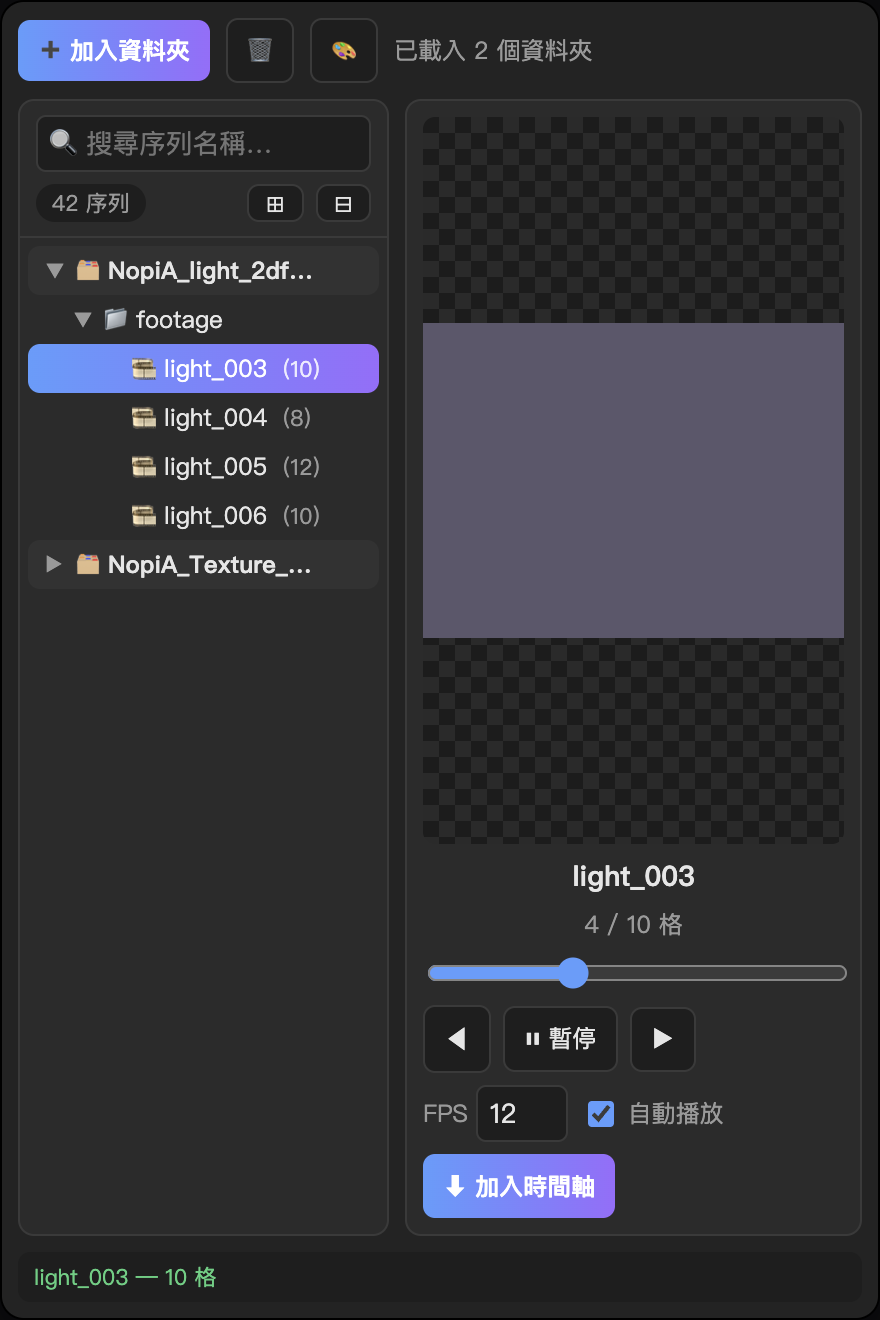
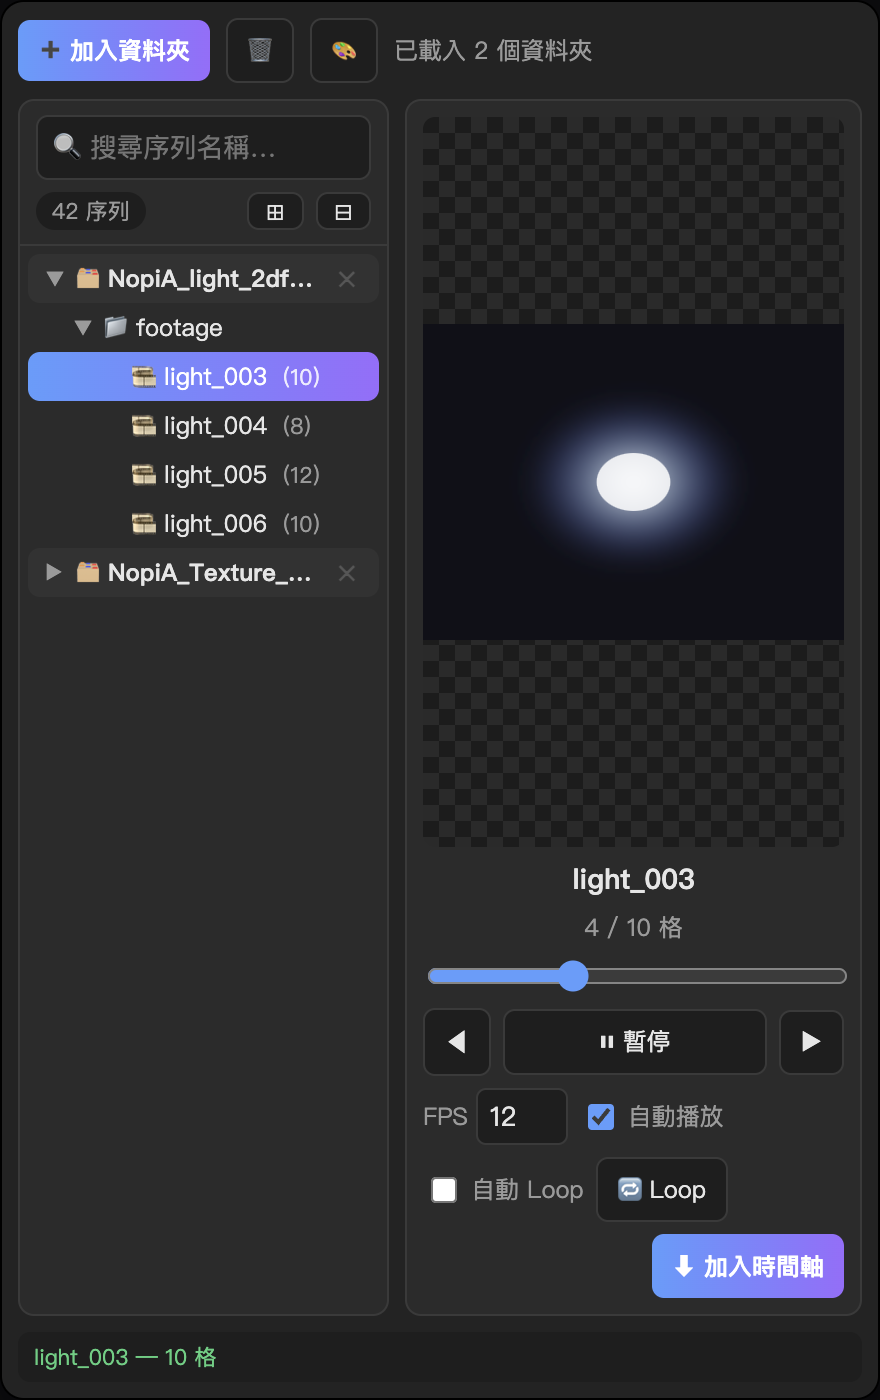
docs: refresh UI screenshots for v1.0.4
Update main/theme panel shots and hero banner with Loop controls; add demo HTML for reproducible captures.

diff --git a/docs/demo/style.css b/docs/demo/style.css
@@ -1,0 +1,162 @@
+:root {
+    --bg: #232323;
+    --panel: #2b2b2b;
+    --panel2: #1e1e1e;
+    --line: #3a3a3a;
+    --txt: #e6e6e6;
+    --muted: #9a9a9a;
+    --accent: #5b9dff;
+    --accent2: #9a6cff;
+    --ok: #4cd07d;
+    --err: #ff6b6b;
+}
+
+* { box-sizing: border-box; }
+
+html, body {
+    margin: 0;
+    background: #0c0c0f;
+    display: block;
+    padding: 24px;
+}
+
+.panel-frame {
+    width: 440px;
+    height: 700px;
+    background: var(--bg);
+    color: var(--txt);
+    font-family: -apple-system, "PingFang TC", "Segoe UI", sans-serif;
+    font-size: 12px;
+    display: flex;
+    flex-direction: column;
+    padding: 8px;
+    gap: 8px;
+    border-radius: 12px;
+    overflow: hidden;
+    box-shadow: 0 24px 60px rgba(0,0,0,.5);
+    border: 1px solid #000;
+    user-select: none;
+}
+
+.top { display: flex; gap: 8px; align-items: center; flex: 0 0 auto; }
+.root {
+    flex: 1; min-width: 0; color: var(--muted);
+    white-space: nowrap; overflow: hidden; text-overflow: ellipsis;
+    direction: rtl; text-align: left;
+}
+
+.settings {
+    flex: 0 0 auto; display: flex; align-items: center; gap: 12px; flex-wrap: wrap;
+    background: var(--panel); border: 1px solid var(--line);
+    border-radius: 8px; padding: 8px 10px;
+}
+.settings label { display: flex; align-items: center; gap: 5px; color: var(--muted); }
+.settings input[type="color"] {
+    width: 28px; height: 22px; padding: 0; border: 1px solid var(--line);
+    border-radius: 5px; background: none; cursor: pointer;
+}
+.presets { display: flex; gap: 6px; }
+.swatch {
+    width: 22px; height: 22px; border-radius: 6px; cursor: pointer;
+    border: 1px solid var(--line); display: inline-block;
+}
+
+.main { flex: 1 1 auto; display: flex; gap: 8px; min-height: 0; }
+
+.side {
+    flex: 0 0 44%; min-width: 150px;
+    display: flex; flex-direction: column;
+    background: var(--panel); border: 1px solid var(--line);
+    border-radius: 8px; overflow: hidden;
+}
+.side-head {
+    padding: 7px 8px; border-bottom: 1px solid var(--line);
+    display: flex; flex-direction: column; gap: 6px;
+}
+.search {
+    width: 100%; background: var(--panel2); color: var(--txt);
+    border: 1px solid var(--line); border-radius: 6px;
+    padding: 6px 8px; font-family: inherit; outline: none;
+}
+.side-tools { display: flex; align-items: center; gap: 6px; }
+.badge {
+    background: var(--panel2); color: var(--muted);
+    border-radius: 99px; padding: 2px 8px; font-size: 11px;
+}
+.mini { margin-left: auto; padding: 2px 8px; font-size: 13px; line-height: 1; }
+.mini + .mini { margin-left: 0; }
+
+.tree { flex: 1; overflow: hidden; padding: 4px; }
+
+.node { white-space: nowrap; }
+.row {
+    display: flex; align-items: center; gap: 4px;
+    padding: 4px 6px; border-radius: 6px; cursor: pointer;
+    overflow: hidden;
+}
+.row.active {
+    background: linear-gradient(90deg, var(--accent), var(--accent2));
+    color: #fff;
+}
+.row.active .sub { color: rgba(255,255,255,.85); }
+.root-row { font-weight: 600; background: rgba(255,255,255,.03); }
+.rm { margin-left: auto; flex: 0 0 auto; color: var(--muted); padding: 0 6px; font-size: 11px; opacity: .35; }
+.tw { width: 14px; flex: 0 0 14px; text-align: center; color: var(--muted); font-size: 10px; }
+.tw.open { transform: rotate(90deg); display: inline-block; }
+.tw.leaf { visibility: hidden; }
+.ico { flex: 0 0 auto; }
+.label { overflow: hidden; text-overflow: ellipsis; }
+.sub { color: var(--muted); margin-left: 4px; font-size: 11px; }
+.children.open { display: block; }
+
+.preview {
+    flex: 1 1 auto; min-width: 0;
+    display: flex; flex-direction: column; gap: 6px;
+    background: var(--panel); border: 1px solid var(--line);
+    border-radius: 8px; padding: 8px;
+}
+.stage {
+    flex: 1 1 auto; min-height: 120px;
+    background:
+        linear-gradient(45deg, #2a2a2a 25%, transparent 25%) 0 0/16px 16px,
+        linear-gradient(-45deg, #2a2a2a 25%, transparent 25%) 0 8px/16px 16px,
+        linear-gradient(45deg, transparent 75%, #2a2a2a 75%) 8px -8px/16px 16px,
+        linear-gradient(-45deg, transparent 75%, #2a2a2a 75%) -8px 0/16px 16px,
+        #1c1c1c;
+    border-radius: 6px; display: flex; align-items: center; justify-content: center;
+    overflow: hidden; position: relative;
+}
+.stage img { max-width: 100%; max-height: 100%; object-fit: contain; }
+
+.name { text-align: center; font-weight: 700; font-size: 14px; }
+.info { text-align: center; color: var(--muted); }
+.slider { width: 100%; accent-color: var(--accent); }
+
+.controls { display: flex; align-items: center; gap: 6px; flex-wrap: wrap; }
+.fps, .autoplay { display: flex; align-items: center; gap: 4px; color: var(--muted); }
+.fps input { width: 46px; }
+.autoplay input { accent-color: var(--accent); }
+
+button {
+    font-family: inherit; font-size: 12px; cursor: pointer;
+    border: 1px solid var(--line); background: var(--panel2);
+    color: var(--txt); border-radius: 6px; padding: 7px 10px;
+}
+.btn-primary {
+    border: none; background: linear-gradient(90deg, var(--accent), var(--accent2));
+    color: #fff; font-weight: 600;
+}
+#play { flex: 1; min-width: 80px; }
+#import { margin-left: auto; }
+
+input[type="number"] {
+    background: var(--panel2); color: var(--txt);
+    border: 1px solid var(--line); border-radius: 5px; padding: 4px 6px;
+    font-family: inherit;
+}
+
+.status {
+    flex: 0 0 auto; padding: 5px 8px; border-radius: 6px;
+    background: var(--panel2); color: var(--muted); font-size: 11px;
+}
+.status.ok { color: var(--ok); }

diff --git a/docs/demo/demo-theme.html b/docs/demo/demo-theme.html
@@ -1,0 +1,100 @@
+<!DOCTYPE html>
+<html lang="zh-Hant">
+<head>
+<meta charset="utf-8">
+<title>PNG Sequence Preview — Theme</title>
+<link rel="stylesheet" href="./style.css">
+<style>
+  :root {
+    --accent: #39d98a;
+    --accent2: #2bb673;
+  }
+</style>
+</head>
+<body>
+<div class="panel-frame" id="frame">
+  <div class="top">
+    <button class="btn-primary">➕ 加入資料夾</button>
+    <button class="btn" title="清空全部">🗑</button>
+    <button class="btn" title="介面顏色">🎨</button>
+    <div class="root">已載入 2 個資料夾</div>
+  </div>
+
+  <div class="settings">
+    <label>主色 <input type="color" value="#39d98a"></label>
+    <label>副色 <input type="color" value="#2bb673"></label>
+    <label>背景 <input type="color" value="#232323"></label>
+    <span class="presets">
+      <i class="swatch" style="background:linear-gradient(90deg,#5b9dff,#9a6cff)"></i>
+      <i class="swatch" style="background:linear-gradient(90deg,#39d98a,#2bb673);outline:2px solid #fff;outline-offset:1px"></i>
+      <i class="swatch" style="background:linear-gradient(90deg,#ff8a5b,#ff5b9d)"></i>
+      <i class="swatch" style="background:linear-gradient(90deg,#f5c542,#ff8a5b)"></i>
+    </span>
+    <button class="mini">重設</button>
+  </div>
+
+  <div class="main">
+    <div class="side">
+      <div class="side-head">
+        <input class="search" type="text" placeholder="🔍 搜尋序列名稱…">
+        <div class="side-tools">
+          <span class="badge">42 序列</span>
+          <button class="mini">⊞</button>
+          <button class="mini">⊟</button>
+        </div>
+      </div>
+      <div class="tree">
+        <div class="node">
+          <div class="row root-row" style="padding-left:6px">
+            <span class="tw open">▶</span><span class="ico">🗂</span>
+            <span class="label">NopiA_light_2dfxPack</span><span class="rm">✕</span>
+          </div>
+          <div class="children open">
+            <div class="node"><div class="row" style="padding-left:20px">
+              <span class="tw open">▶</span><span class="ico">📁</span><span class="label">footage</span></div>
+              <div class="children open">
+                <div class="node"><div class="row active" style="padding-left:34px">
+                  <span class="tw leaf">▶</span><span class="ico">🎞</span><span class="label">light_003</span><span class="sub">(10)</span></div></div>
+                <div class="node"><div class="row" style="padding-left:34px">
+                  <span class="tw leaf">▶</span><span class="ico">🎞</span><span class="label">light_004</span><span class="sub">(8)</span></div></div>
+                <div class="node"><div class="row" style="padding-left:34px">
+                  <span class="tw leaf">▶</span><span class="ico">🎞</span><span class="label">light_005</span><span class="sub">(12)</span></div></div>
+                <div class="node"><div class="row" style="padding-left:34px">
+                  <span class="tw leaf">▶</span><span class="ico">🎞</span><span class="label">light_006</span><span class="sub">(10)</span></div></div>
+              </div>
+            </div>
+          </div>
+        </div>
+        <div class="node">
+          <div class="row root-row" style="padding-left:6px">
+            <span class="tw">▶</span><span class="ico">🗂</span>
+            <span class="label">NopiA_Texture_Pack_vol.1</span><span class="rm">✕</span>
+          </div>
+        </div>
+      </div>
+    </div>
+
+    <div class="preview">
+      <div class="stage">
+        <img src="./preview.svg" alt="light_003 preview">
+      </div>
+      <div class="name">light_003</div>
+      <div class="info">4 / 10 格</div>
+      <input class="slider" type="range" min="0" max="9" value="3">
+      <div class="controls">
+        <button class="btn">◀</button>
+        <button class="btn" id="play">⏸ 暫停</button>
+        <button class="btn">▶</button>
+        <label class="fps">FPS <input type="number" value="12"></label>
+        <label class="autoplay"><input type="checkbox" checked> 自動播放</label>
+        <label class="autoplay"><input type="checkbox"> 自動 Loop</label>
+        <button class="btn">🔁 Loop</button>
+        <button class="btn-primary" id="import">⬇ 加入時間軸</button>
+      </div>
+    </div>
+  </div>
+
+  <div class="status ok">light_003 — 10 格</div>
+</div>
+</body>
+</html>

diff --git a/docs/demo/demo-main.html b/docs/demo/demo-main.html
@@ -1,0 +1,81 @@
+<!DOCTYPE html>
+<html lang="zh-Hant">
+<head>
+<meta charset="utf-8">
+<title>PNG Sequence Preview — Main</title>
+<link rel="stylesheet" href="./style.css">
+</head>
+<body>
+<div class="panel-frame" id="frame">
+  <div class="top">
+    <button class="btn-primary">➕ 加入資料夾</button>
+    <button class="btn" title="清空全部">🗑</button>
+    <button class="btn" title="介面顏色">🎨</button>
+    <div class="root">已載入 2 個資料夾</div>
+  </div>
+
+  <div class="main">
+    <div class="side">
+      <div class="side-head">
+        <input class="search" type="text" placeholder="🔍 搜尋序列名稱…">
+        <div class="side-tools">
+          <span class="badge">42 序列</span>
+          <button class="mini">⊞</button>
+          <button class="mini">⊟</button>
+        </div>
+      </div>
+      <div class="tree">
+        <div class="node">
+          <div class="row root-row" style="padding-left:6px">
+            <span class="tw open">▶</span><span class="ico">🗂</span>
+            <span class="label">NopiA_light_2dfxPack</span><span class="rm">✕</span>
+          </div>
+          <div class="children open">
+            <div class="node"><div class="row" style="padding-left:20px">
+              <span class="tw open">▶</span><span class="ico">📁</span><span class="label">footage</span></div>
+              <div class="children open">
+                <div class="node"><div class="row active" style="padding-left:34px">
+                  <span class="tw leaf">▶</span><span class="ico">🎞</span><span class="label">light_003</span><span class="sub">(10)</span></div></div>
+                <div class="node"><div class="row" style="padding-left:34px">
+                  <span class="tw leaf">▶</span><span class="ico">🎞</span><span class="label">light_004</span><span class="sub">(8)</span></div></div>
+                <div class="node"><div class="row" style="padding-left:34px">
+                  <span class="tw leaf">▶</span><span class="ico">🎞</span><span class="label">light_005</span><span class="sub">(12)</span></div></div>
+                <div class="node"><div class="row" style="padding-left:34px">
+                  <span class="tw leaf">▶</span><span class="ico">🎞</span><span class="label">light_006</span><span class="sub">(10)</span></div></div>
+              </div>
+            </div>
+          </div>
+        </div>
+        <div class="node">
+          <div class="row root-row" style="padding-left:6px">
+            <span class="tw">▶</span><span class="ico">🗂</span>
+            <span class="label">NopiA_Texture_Pack_vol.1</span><span class="rm">✕</span>
+          </div>
+        </div>
+      </div>
+    </div>
+
+    <div class="preview">
+      <div class="stage">
+        <img src="./preview.svg" alt="light_003 preview">
+      </div>
+      <div class="name">light_003</div>
+      <div class="info">4 / 10 格</div>
+      <input class="slider" type="range" min="0" max="9" value="3">
+      <div class="controls">
+        <button class="btn">◀</button>
+        <button class="btn" id="play">⏸ 暫停</button>
+        <button class="btn">▶</button>
+        <label class="fps">FPS <input type="number" value="12"></label>
+        <label class="autoplay"><input type="checkbox" checked> 自動播放</label>
+        <label class="autoplay"><input type="checkbox"> 自動 Loop</label>
+        <button class="btn">🔁 Loop</button>
+        <button class="btn-primary" id="import">⬇ 加入時間軸</button>
+      </div>
+    </div>
+  </div>
+
+  <div class="status ok">light_003 — 10 格</div>
+</div>
+</body>
+</html>